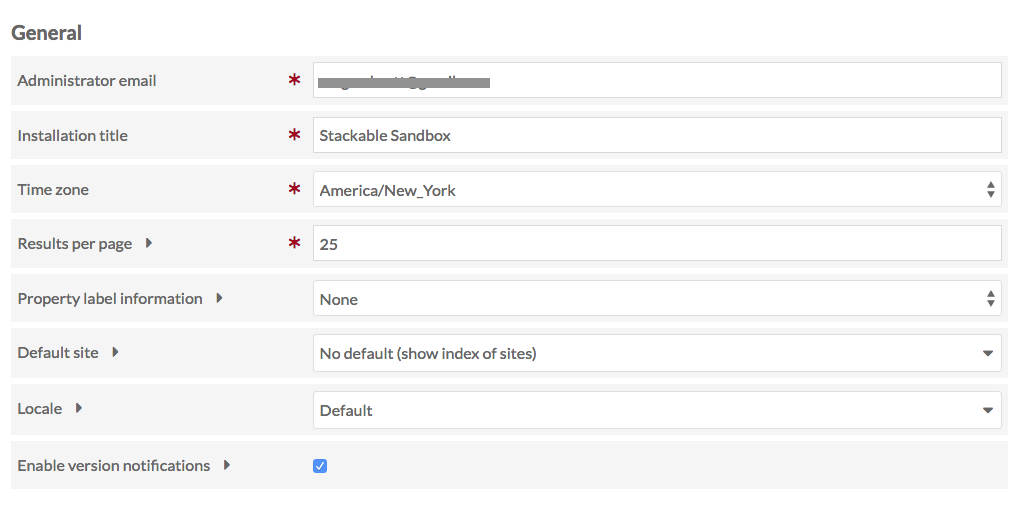
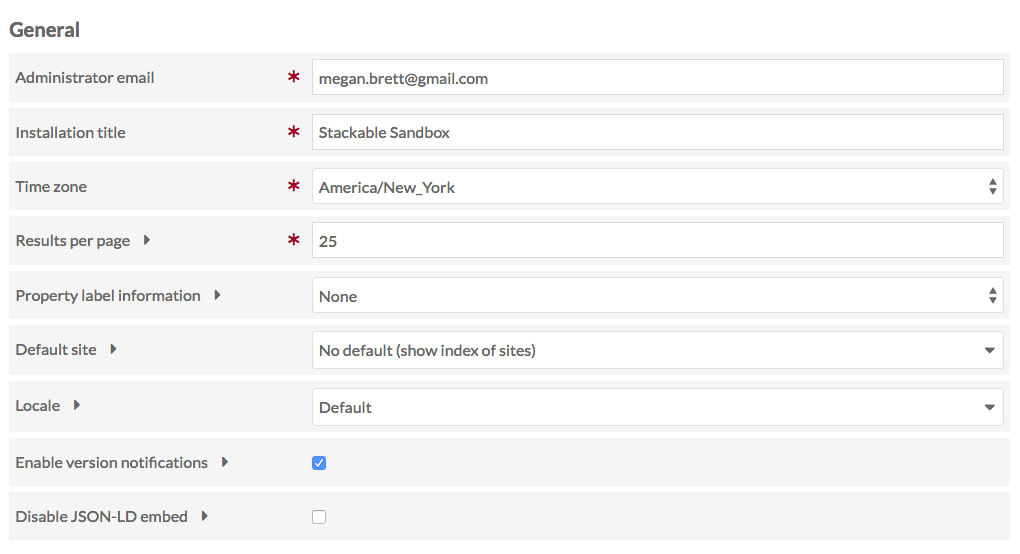
Add JSON-LD setting to settings page
update text and screenshot

diff --git a/docs/admin/settings.md b/docs/admin/settings.md
@@ -35,6 +35,8 @@ Note that some hosting setups may require that the domain name for the administr
 
 *Enable version notifications* check this box to enable notifications for new versions of Omeka S, themes, and modules. 
 
+*Disable JSON-LD embed* By default, Omeka embeds JSON-LD in resource browse and show pages for the purpose of machine-readable metadata discovery. Check this to disable embedding.
+
 ### Security
 
 ![Security settings with fields as described below](/admin/adminfiles/settings_security.png)
